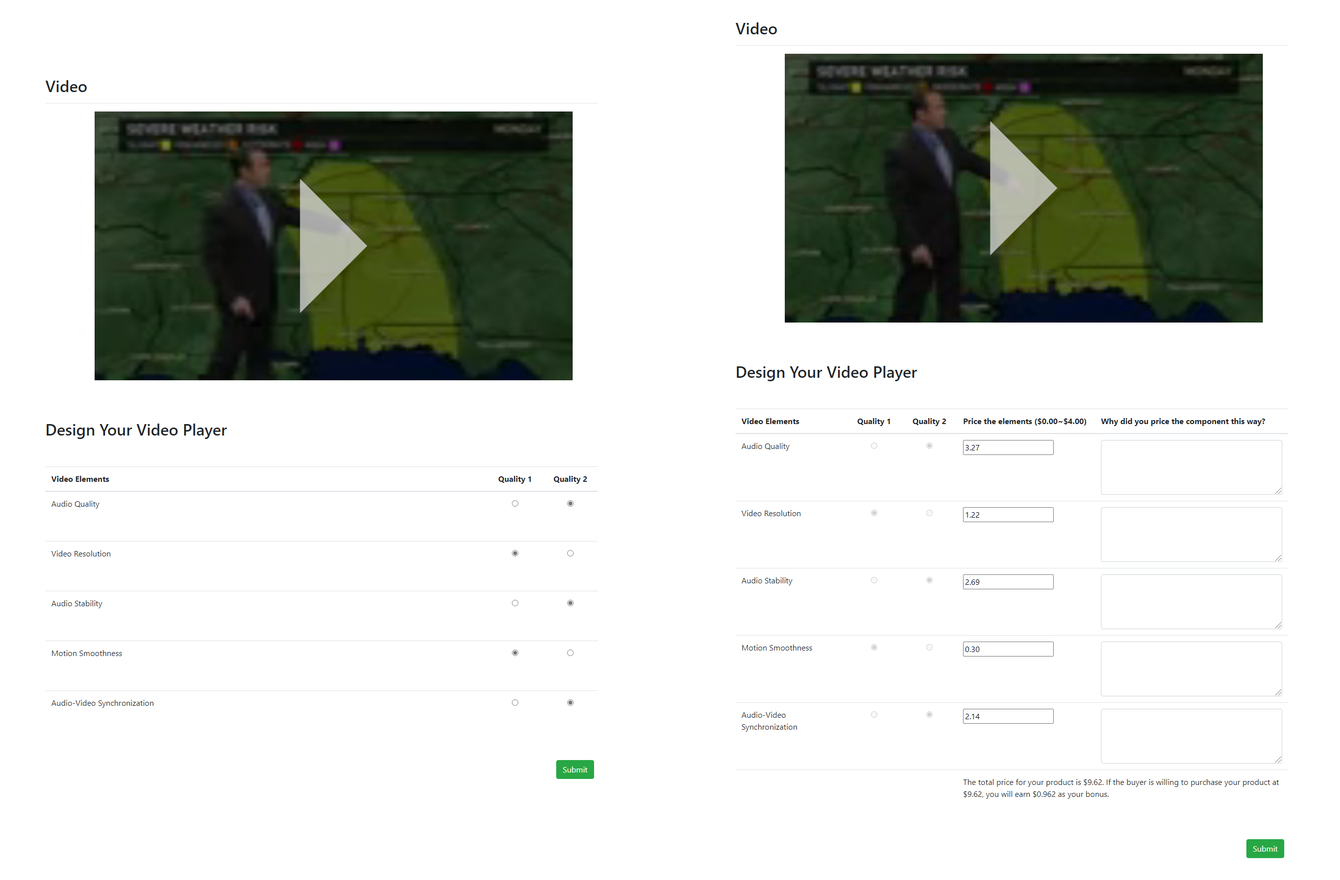
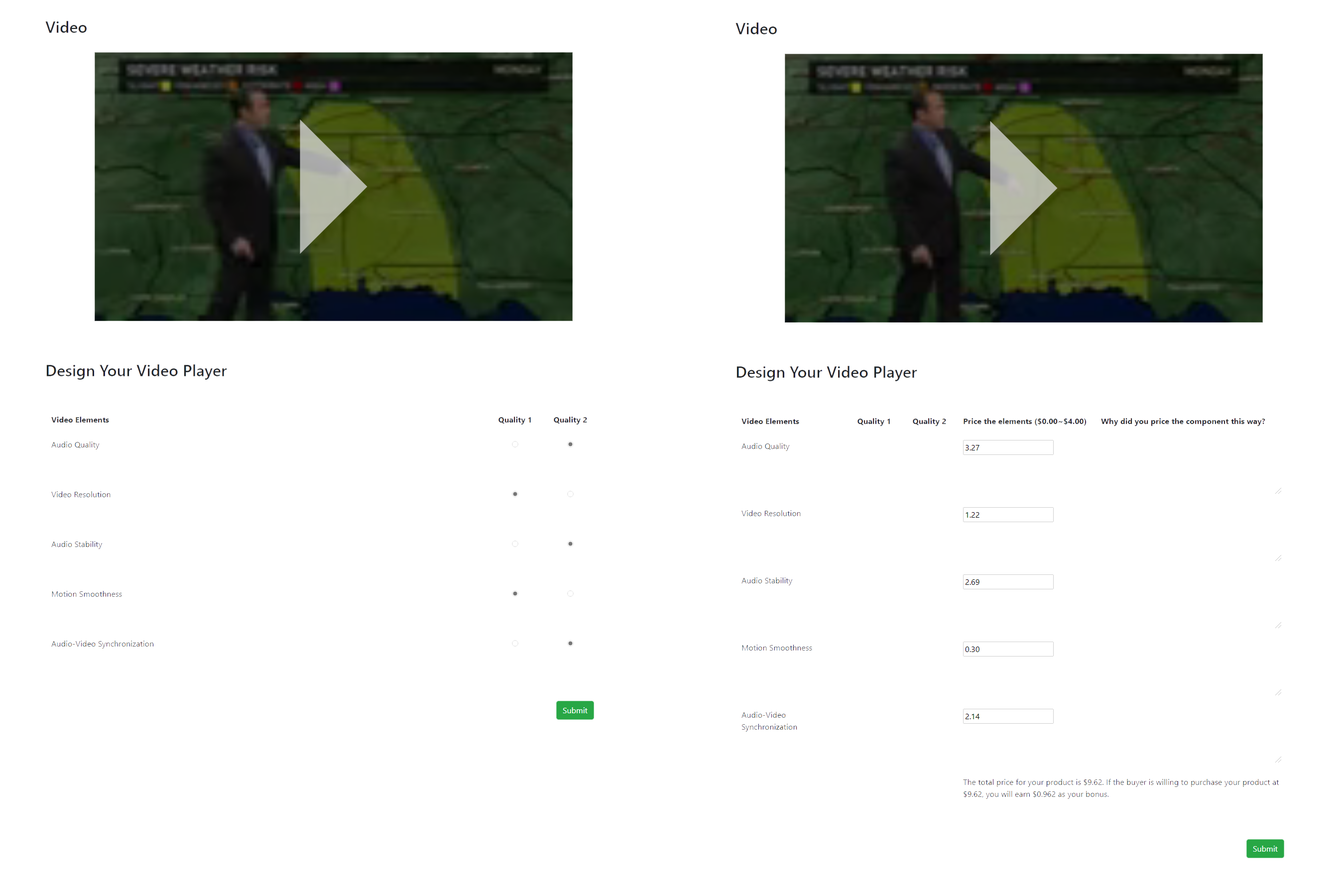
Updates from Overleaf

diff --git a/content/0_Introduction.tex b/content/0_Introduction.tex
@@ -1,10 +1,10 @@
 \section{Introduction}
 
-Surveys are a common instrument to gauge opinion for scholars in the social sciences, researchers in the HCI / CSCW, and investigators from many research community. The Likert ordinal scale~\cite{likert1932technique} is a familiar instrument in surveys that elicit ratings, where survey takers indicate their level of agreement, satisfaction, or importance along an intensity scale \cite{moors2016two}. Nearly a hundred years after~\textcite{likert1932technique}, we find the ordinal scale in widespread use in online surveys, including those on Qualtrics, SurveyMonkey, and Google forms platforms. Two observations prompt this study. First, the way researchers elicit preferences from survey-takers through the online incarnation of these ordinal scales is virtually indistinguishable from the Likert scale surveys administered on paper-based forms nearly a century ago. Second, one of the great advantages of online surveys is that scholars can potentially reach a large audience. However, prior work indicates that survey-takers can express inaccurate self-reports, including responses recorded via an ordinal scale~\cite{araujo2017much, vavreck2007exaggerated}. In this paper, we ask: \textit{Do the affordances of modern computer interfaces, coupled with a modern computer's ability to make real-time calculations, allow us to develop novel, screen-based techniques that elicit truthful responses from survey-takers?}
+Surveys are a common instrument to gauge opinion for scholars in the social sciences, the HCI / CSCW area, and many other research communities. The Likert ordinal scale~\cite{likert1932technique} is a familiar instrument in surveys that elicit ratings, where survey takers indicate their level of agreement, satisfaction, or importance along an intensity scale \cite{moors2016two}. Nearly a hundred years after~\textcite{likert1932technique}, we find the ordinal scale in widespread use in online surveys, including those on Qualtrics, SurveyMonkey, and Google Forms platforms. Two observations prompt this study. First, the way researchers elicit preferences from survey-takers through the online incarnation of these ordinal scales is virtually indistinguishable from the Likert scale surveys administered on paper-based forms nearly a century ago. \tc{We wonder if the ubiquity of computational devices can popularize survey tools that were accurate but har to access on paper.} Second, one of the great advantages of online surveys is that scholars can potentially reach a large audience. However, prior work indicates that self-reports by survey-takers, including responses recorded via an ordinal scale, can be inaccurate~\cite{araujo2017much, vavreck2007exaggerated}. In this paper, we ask: \textit{Do the affordances of modern computer interfaces, coupled with a modern computer's ability to make real-time calculations, allow us to develop novel, screen-based techniques that elicit responses from survey-takers which better represents their behaviors?}
 
-We examine our motivating question within the context of surveys where the survey creator has a specific goal: to use the aggregates of the elicited opinions to inform decisions by the survey creator, where these decisions may potentially impact the survey respondent. A wide variety of such surveys include those that ask respondents about which policies the government ought to pursue~\cite{pew_spending}, interface designers asking respondents for their opinions on different designs~\cite{ledo2018evaluation}, and what products to stock at grocery stores~\cite{nielsen}. The decision-maker (i.e., the group or the organization that uses the survey results) will then use the survey aggregates to implement one of the several options presented to the survey-takers. Often, these decision-makers have limited resources (e.g., money, time, manpower) and cannot realize all the options presented to the survey-takers. We term such surveys, where respondents help the decision-maker choose among a set of options, as \textit{resource-constrained surveys} in this paper. Thus, we consider surveys, where respondent have some utility in the survey outcome (e.g., the specific policy that the government adopts), even though the exact value of the utility or the time to receive that utility remains uncertain. In, contrast, surveys that for example, aim to develop rankings by asking respondents to identify their favorite hobby, place to visit, or their favorite celebrity, are not part of survey types that we consider in this paper. 
+We examine our motivating question within the context of surveys where the survey creator made decisions by aggregating respondents' elicited opinions. At the same time, these decisions could potentially impact these survey respondents. Examples of such surveys include those that ask respondents about which policies the government ought to pursue~\cite{pew_spending}, ask users for their opinions on different interface designs~\cite{ledo2018evaluation}, and ask customers about what products to stock at grocery stores~\cite{nielsen}. The decision-maker (i.e., the group or the organization that uses the survey results) then uses the survey aggregate responses to implement one of the several options presented to the survey-takers. Often, these decision-makers have limited resources (e.g., money, time, space, manpower) and cannot realize all the options presented to the survey-takers. In this paper, we term such surveys, where respondents help the decision-maker choose among a set of options under limited resources, \textit{resource-constrained surveys}. More specifically, we focus on resource-constrained surveys where respondents have some utility in the survey outcome (e.g., the specific policy that the government adopts), even though the exact value of the utility or the time to receive that utility may remain uncertain. In contrast, surveys that, for example, aim to develop rankings by asking respondents to identify their favorite hobby, place to visit, or their favorite celebrity, are not survey types that we consider in this paper. 
 
-In resource-constrained surveys, decision-makers ask the survey respondents two questions: \textit{how much} do you prefer each option; how would you \textit{prioritize} (i.e., rank) the options? In the past century, decision-makers have used ratings and rank-based survey-instruments to answer these questions; these instruments answer one of the two questions, but not both~\cite{moors2016two}.  Next, we examine two common survey techniques, one based on ratings and the other based on rankings, which decision-makers employ in their surveys.
+In resource-constrained surveys, decision-makers ask the survey respondents two questions: \textit{how much} do you prefer each option; how would you \textit{prioritize} (i.e., rank) the options? While in the past century, decision-makers have used ratings and rank-based survey-instruments to answer such questions, the instruments answered \emph{one} of the two questions, but not both~\cite{moors2016two}.  Next, we examine two common survey techniques, one based on ratings and the other based on rankings.
 
 
 % Decision-makers often utilize surveys to aggregate opinions from the crowd to inform decisions. Understanding a crowd's preferences and priorities across a set of options under resource constraints is a common use case of surveys. \tc{When there are insufficient resources, such as money, time, space, and workforce, it is impossible to satisfy all the needs, creating a resource constraint scenario. Examples of these scenarios include public polling surveys designed to allocate government budgets \cite{pew_spending}, surveys to assess designs in human-computer interaction (HCI) interfaces \cite{ledo2018evaluation}, and surveys to prioritize what products to stock in grocery stores \cite{nielsen}.}
@@ -22,68 +22,68 @@ In resource-constrained surveys, decision-makers ask the survey respondents two 
 % In order to find truthful answers, researchers have developed various forms of surveys to elicit \textit{truthful} self-reported preferences \cite{stone1999science}. 
 % Rating and ranking-based surveys are the two major categories \cite{moors2016two}, each with their strengths and weaknesses. 
 
-In a rating-based survey, survey takers indicate their level of agreement, satisfaction, or importance along an intensity scale~\cite{moors2016two}. The Likert scale is the most commonly used rating-based technique that elicits the \textit{strength} of a survey taker's preferences~\cite{likert1932technique}. Rating-based surveys are easy to understand and administer; this may explain why the Likert scale is the current norm in many survey settings. The Likert ordinal scale is problematic in the resource-constrained survey types of interest to this paper. Consider, for example, the Pew Research Center, which administers annual surveys with a 3-point Likert-like scale to \tc{know} how participants would budget federal government resources~\cite{pew_spending}. Respondents in such a survey can freely choose  ``increase spending'' on the scale for \textit{all} government program areas. However, a government with limited resources cannot do so. This behavior is known as the ``extreme responding'' bias~\cite{batchelor2016extreme, furnham1986response, meisenberg2008acquiescent}. Thus, a Likert scale survey may  inaccurately elicit how participants \textit{prioritize} \tc{the options since each option is independently assessed~\cite{alwin1985measurement}}. Furthermore, a Likert scale survey does not safeguard against exaggerated or unrealistic preferences~\cite{araujo2017much, vavreck2007exaggerated}.
+In a rating-based survey, survey takers indicate their level of agreement, satisfaction, or importance along an intensity scale~\cite{moors2016two}. The Likert scale is the most commonly used rating-based technique that elicits the \textit{strength} of a survey taker's preferences~\cite{likert1932technique}. Rating-based surveys are easy to understand and administer; this may explain why the Likert scale is the current norm in many survey settings. The Likert ordinal scale is problematic in the resource-constrained survey types that are of interest in this paper. Consider, for example, the Pew Research Center annual surveys with a 3-point Likert-like scale that ask how participants would budget federal government resources~\cite{pew_spending}. Respondents in such a survey can freely choose  ``increase spending'' on the scale for \textit{all} government program areas. However, a government with limited resources cannot operationalize this option. This behavior is known as ``extreme responding'' bias~\cite{batchelor2016extreme, furnham1986response, meisenberg2008acquiescent}. Thus, a Likert scale survey may inaccurately elicit how participants \textit{prioritize} \tc{the options since each option is independently assessed~\cite{alwin1985measurement}}. Furthermore, a Likert scale survey does not safeguard against exaggerated or unrealistic preferences~\cite{araujo2017much, vavreck2007exaggerated}.
 
-Ranking-based surveys focus on understanding how participants \textit{prioritize} among the possible options~\cite{moors2016two}. For example, participatory budgeting~\cite{cabannes2004participatory,goel2015knapsack,Goel2016, Lee2014, benade2020preference} is a promising alternative for governments to ask citizens to prioritize resource allocation.  In participatory budgeting, voters are asked to identify a subset $I$ among projects $P$, and each project $i \in P$ has a fixed implementation cost $c_i$ known to the survey taker. The survey-taker is also given the total budget available $B$ to the decision-maker (e.g., local city council) and each respondent is asked to pick a subset $I \in P$ of projects that the total costs $\sum_{i \in I} c_i \leqslant B$ stays within the budget. There are two main challenges with ranking based surveys. First, ranking-based surveys cannot elicit the \textit{strength} of a participant's preferences, i.e., the degree to which participant prefers option A over B. Second, ranking surveys that use participatory budgeting may be less easy to adapt to CSCW or Social science surveys, since the decision-maker, which creates the survey, has to assign implementation costs to each option and an overall budget. For example, in a survey about interface design, the decision-maker would need to assign costs to each interface aspect on which they are eliciting an opinion. Furthermore, unlike the typical participatory budgeting scenario, where project costs involve allocating \textit{the respondent's tax dollars,} in typical social science and HCI surveys, the implementation of an option involves no obvious cost to a participant. 
+Ranking-based surveys focus on understanding how participants \textit{prioritize} among the possible options~\cite{moors2016two}. For example, participatory budgeting~\cite{cabannes2004participatory,goel2015knapsack,Goel2016, Lee2014, benade2020preference} is a promising alternative for governments to ask citizens to prioritize resource allocation.  In participatory budgeting, voters are asked to identify a subset $I$ among projects $P$, and each project $i \in P$ has a fixed implementation cost $c_i$ known to the survey taker. The survey-taker is also given the total budget available $B$ to the decision-maker (e.g., local city council) and each respondent is asked to pick a subset $I \in P$ of projects that the total costs $\sum_{i \in I} c_i \leqslant B$ stays within the budget. There are two main challenges with ranking based surveys. First, ranking-based surveys cannot elicit the \textit{strength} of a participant's preferences, i.e., the degree to which participant prefers option A over B. Second, ranking surveys that use participatory budgeting may be less easy to adapt to CSCW or social science surveys, since the decision-maker, who creates the survey, has to assign implementation costs to each option and an overall budget. For example, in a survey about interface design, the decision-maker would need to assign costs to each interface element on which they are eliciting an opinion. Furthermore, unlike the typical participatory budgeting scenario, where project costs involve allocating \textit{the respondent's tax dollars,} in typical social science and HCI surveys, the implementation of an option involves no obvious cost to a participant. 
 
 % Besides, performing statistical analysis on rankings data is challenging \cite{alwin1985measurement}.
 
 
 % a resource-constrained collective decision-making scenario where citizens vote for the projects that go into a government budget, participants use ranked voting to order the list of projects according to their relative preferences \cite{benade2020preference}. 
 
-In this paper, we plan to examine Quadratic Voting (QV) as a possible preference elicitation mechanism in online surveys. \textcite{posner2018radical} have recently advocated for the use of QV as an alternative for the traditional one-person-one-vote system. In the \textcite{posner2018radical} formulation, each person has access to a fixed number of voice credits $B$ (i.e., similar to the budget in knapsack voting), allocated across options. Then, each person can cast more than one vote (for, or against) for each option, with the proviso that the votes have a quadratic cost. Thus, casting $n_k$ votes on option $k$ would cost $c(n_k) \propto n_k^2$ in voice credits. Furthermore, the total cost in voice credits across all options cannot exceed the budget $B$. Thus, a person casting positive or negative votes across $k$ options has to satisfy $\sum_k n_k^2 \leqslant B$, where $n_k$ is the number of votes cast on option $k$. 
+In this paper, we examine Quadratic Voting (QV) as a possible preference elicitation mechanism in online surveys. \textcite{posner2018radical} recently advocated for the use of QV as an alternative for the traditional one-person-one-vote system. In the \textcite{posner2018radical} formulation, each person has access to a fixed number of voice credits $B$ (i.e., similar to the budget in knapsack voting) to allocate across options. Then, each person can cast more than one vote (for, or against) for each option, with the proviso that the votes have a quadratic cost. Thus, casting $n_k$ votes on option $k$ would cost $c(n_k) \propto n_k^2$ in voice credits. Furthermore, the total cost in voice credits across all options cannot exceed the budget $B$. Thus, a person casting positive or negative votes across $k$ options has to satisfy $\sum_k n_k^2 \leqslant B$, where $n_k$ is the number of votes cast on option $k$. 
 
 % At the outset, it is unclear how well QV will translate to the kinds of surveys that we examine in this paper.
 
-What makes QV of interest to the CSCW community that uses online surveying tools is that it appears to straddle the two familiar elicitation mechanisms of rating and ranking. While respondents can cast any number of voice credits modulo budgeting constraints in favor of an option, and thus indicating the strength of preference, unlike Likert, they \textit{cannot} allocate a high number of votes to \textit{all} options. Notice that the quadratic vote costs imply that every additional vote in favor of an option, say a change from $n$ to $n+1$ votes, increases the marginal cost by $(n+1)^2-n^2=2n+1$ voice credits. Due to the quadratic budget constraint, QV gently nudges the respondents to prioritize among the options. Prior work further showed that QV results approximate a normal distribution \tc{ compared to}  the ``extreme responding'' behavior found in Likert surveys~\cite{quarfoot2017quadratic}.~\textcite{Lalley2018} also proved robust optimality properties of QV, sugessting that QV may be incentive-compatible (i.e., truth-telling is the dominant strategy for the respondent), but to best of our knowledge, this optimality assertion lacks empirical validation in the survey contexts of interest to this paper. Since QV requires real-time calculations to let the respondent know if they are allocating voice credits across options within the overall budget, QV requires a computational engine. The ubiquity of smartphones and tablets, HCI scholars' desire to reach a wide audience through online surveys, and QV's robust optimality all suggest that QV is worth investigating as an online survey instrument. However, that QV requires a computational engine is also problematic for scholars who wish to reach respondents through both online and paper-based surveys.
+What makes QV of interest to the CSCW community that uses online surveying tools is that it appears to straddle the two familiar elicitation mechanisms of rating and ranking. While respondents can cast any number of voice credits modulo budgeting constraints on an option and thus indicating the strength of a preference, unlike Likert, they \textit{cannot} allocate a high number of votes to \textit{all} options. Notice that the quadratic vote costs imply that every additional vote on an option, say a change from $n$ to $n+1$ votes, increases the marginal cost by $(n+1)^2-n^2=2n+1$ voice credits. Due to the quadratic budget constraint, QV gently nudges the respondents to prioritize among the options. Prior work further showed that aggregated QV results of an option in a sample approximate a normal distribution in contrast to  the ``extreme responding'' behavior found in Likert surveys~\cite{quarfoot2017quadratic}.~\textcite{Lalley2018} also proved robust optimality properties of QV, suggesting that QV may be incentive-compatible (i.e., truth-telling is the dominant strategy for the respondent). Yet, to our best knowledge, this optimality assertion lacks empirical validation in the survey contexts of interest to this paper. Since QV requires real-time calculations to let the respondent know if they are allocating voice credits across options within the overall budget, QV requires a computational engine. The ubiquity of smartphones and tablets, the desire for the CSCW community to reach a wide audience through online surveys, and QV's robust optimality all suggest that QV is worth investigating as an online survey instrument. \tc{Though there were many critical unanswered questions: from designing QV interfaces to communicating what QV is to users, we believe examining whether QV elicits more accurate responses from participants than Likert scale surveys is an important first step.}
 
 
+
+% However, that QV requires a computational engine is also problematic for scholars who wish to reach respondents through both online and paper-based surveys.
 % While QV is an thus an attractive option to test given the ubiquity smartphones and a
-
-
-
-
-
-
 % Challenges with eliciting accurate self-reported preferences in resource-constrained decisions motivated us to examine an alternative, Quadratic Voting (QV), a relatively new voting mechanism proposed by \textcite{posner2018radical}. In this paper, we empirically tested how well QV elicits true preferences in resource-constrained collective decision-making processes compared to the Likert scale. \lwt{Here, we define an individual's ``true preference'' as a preference based entirely on their honest opinions and their own will.} \tc{We measure it through the outcome of an incentive-compatible task in our study.}
-
 % There had been long debates on the pros and cons of rankings and ratings approaches. Nonetheless, when researchers developed many of these survey methodologies, the mediums of conducting surveys were paper and landlines. The current generation of survey tools, such as Survey Monkey and Qualtrics, simply translated the traditional approaches from paper to online. Given the ubiquity of personal computing devices today, such as \tc{smartphones, tablets,} and laptops, we ask: is there a computational-powered survey methodology that elicits both the rankings \textit{and} ratings of a set of options accurately in a resource-constrained collective decision-making process? In this study, we investigate Quadratic Voting (QV) \cite{posner2018radical} as a potential response to this question. 
 
 % Participants rank and rate the potential options in QV at the same time. In QV, expressing an opinion is not free -- each participant receives a fixed budget of voice credits, i.e., the ``currency" in QV, and pays a quadratic cost for the votes they cast. More formally, casting $n$ votes for or against an option costs $n^2$ voice credits. Participants vary the number of votes to represent the strength of their preference, i.e., they \textit{rate} an option with the number of votes. But as the number of votes on an option increases, the marginal cost for each extra vote increases as well; in other words, each additional vote becomes more expensive. Participants may cast as many votes as they choose on any option, as long as the total cost for the votes does not exceed the fixed given budget of voice credits. The limited budget and increasing marginal cost \tc{encourage} participants to make trade-offs among options, equivalent to \textit{ranking} them. Prior work further demonstrated that QV outcomes approximated a normal distribution\tc{ instead of }the polarized responses from Likert scale survey results on highly-debated topics \cite{quarfoot2017quadratic}. However, to the best of our knowledge, no one has empirically explored whether QV \tc{can elicit} more accurate self-reported preferences.
 %\textcite{lalley2018quadratic} proved that the QV mechanism is more Pareto-optimal than many traditional voting mechanisms.
 
-In our study, we examined QV's ability to elicit true preferences in resource-constrained surveys. Given that Likert scale surveys are the most widely adopted to date \cite{moors2016two}, we compared a QV survey to a Likert scale survey \cite{likert1932technique} in a resource-constrained setting. We identified two distinct types of survey questions in this setting: (1) choosing among $K$ independent options of one topic, and (2) choosing among $K$ dependent options that jointly contribute to the same topic. While the former is typical in public policy surveys, the latter is common to interface design surveys.
+In our study, we examined QV's ability to elicit true preferences in resource-constrained surveys. Since we were not aware of any prior work that empirically explored a way to determine the voice credit budget of QV, we assessed three different budgets in our QV survey experiment. Given that Likert scale surveys are the most widely adopted to date \cite{moors2016two}, we compared a QV survey to a Likert scale survey \cite{likert1932technique} in a resource-constrained setting. We identified two distinct types of survey questions in this setting: (1) choosing among $K$ independent options of one topic, and (2) choosing among $K$ dependent options that jointly contribute to the same topic. While the former is typical in public policy surveys, the latter is common to interface design surveys. Therefore, we studied the two types in two separate research questions:
 
 % To offer an analogy, scenario one relates to choosing among ice cream, cakes, and puddings for dessert, while scenario two assesses what an individual cares more about when choosing ice cream -- the flavor, texture, or ingredients. Therefore, we analyzed them in two separate research questions:
 
 
 \begin{itemize}
-    \item[\textbf{RQ 1}] How do QV responses and Likert-scale responses align with the respondent's true preferences\footnote{That is, the phrase ``align with true preferences'' is equivalent to determining if the survey instrument is incentive-compatible.} in a survey where a survey respondent chooses among $K$ independent options of one topic? How do variations in the number of voice credits available to QV survey respondents impact this outcome?
+    \item[\textbf{RQ 1a}] How well do QV responses and Likert-scale responses align with the respondent's true preferences\footnote{That is, the phrase ``align with true preferences'' is equivalent to determining if the survey instrument is incentive-compatible.} in a survey where a survey respondent chooses among $K$ independent options of one topic? 
+    
+    \item[\textbf{RQ 1b}] How do variations in the number of voice credits available to QV survey respondents -- a small ($O(K)$), medium ($O(K^{1.5})$), and large ($O(K^2)$) budget -- impact this outcome?
 
-    \item[\textbf{RQ 2}] How do QV responses and Likert-scale responses align with the respondent's true preferences in a survey where survey respondent chooses among $K$ dependent options that jointly contribute to the same topic? 
+    \item[\textbf{RQ 2}] How well do QV responses and Likert-scale responses align with the respondent's true preferences in a survey where the survey respondent chooses among $K$ dependent options that jointly contribute to the same topic? 
 \end{itemize}
 
-To answer RQ1, we designed a public polling survey to assess which social causes need more support, a typical scenario for choosing among $K$ independent options. To measure participants' true preferences on the same topic, we created an incentive-compatible donation task, in which participants should only donate more for cause A than cause B if they truly care more about cause A \cite{champ1997using}. Participants on Mechanical Turk (MTurk) completed either a 5-point Likert scale version or a QV version of the survey, and the donation task, in a randomized controlled experiment. \tc{Since we were not aware of any prior work that empirically explored a way to determine the voice credit budget of QV, we asked the second question in RQ1. We experimented with} three variations of the QV survey with a small ($O(K)$), medium ($O(K^{1.5})$), and large ($O(K^2)$) budget in the experiment. We measured the similarity between each individual's survey result and their true preferences as reflected in the donation task and applied Bayesian analysis to compare the degree of similarity to true preferences in QV and Likert scale surveys.
+To answer RQ1, we designed a public polling survey, similar to those administered by Pew Research Center annually, to assess which social causes need more support, a typical scenario for choosing among $K$ independent options. To measure participants' true preferences on the same topic, we created an incentive-compatible donation task, in which participants should only donate more for cause A than cause B if they truly care more about cause A \cite{champ1997using}. In a randomized controlled experiment, participants completed either a 5-point Likert scale version or a QV version of the survey, and the donation task on the Amazon Mechanical Turk (MTurk) platform. We measured the similarity between each individual's survey result and their true preferences as reflected in the donation task and applied Bayesian analysis to compare the degree of similarity to true preferences in QV and Likert scale surveys.
 
-In the case of choosing among $K$ dependent options that jointly contribute to the same topic in RQ2, we used an HCI user study scenario to understand how users make trade-offs across visual and audio elements in a video streaming experience given limited internet bandwidth. We used QV and 5-point Likert scale surveys to obtain participants' self-reported responses and designed \tc{an} incentive-compatible product design and pricing task to elicit their willingness-to-pay for each video element \cite{roth1982incentive}. Similar to the first experiment, we conducted the randomized controlled experiment on MTurk and analyzed the results with Bayesian analysis.
+In the case of choosing among $K$ dependent options that jointly contributed to the same topic in RQ2, we used an HCI user study scenario to understand how users made trade-offs across visual and audio elements in a video streaming experience given limited internet bandwidth. We used QV and 5-point Likert scale surveys to obtain participants' self-reported responses and created \tc{an} incentive-compatible product design and pricing task to elicit their willingness-to-pay for each video element \cite{roth1982incentive}. Similar to the first experiment, we conducted the randomized controlled experiment on MTurk and analyzed the results using Bayesian analysis.
 
 \textbf{Contributions} This work contributes to the extensive body of work on survey techniques that elicit self-reported preferences in resource-constrained decision-making in two ways: we find an improved accuracy of responses via QV compared to the Likert scale norm, and we extend the use of QV to the HCI user study domain.
 
 \begin{description}
-\item[QV more accurately elicits true preferences:] We show empirically that QV with a medium (i.e., $O(K^{1.5})$) to large (i.e., $O(K^{2})$) voice credit budget elicits true preferences more accurately than Likert scale responses when the survey respondents are asked to either (1) choose among $K$ independent options of the same topic, or (2) choose among $K$ dependent options jointly contributing to the same topic, under resource constraints. \tc{Unlike} prior empirical work that compared the characteristics of QV and Likert scale responses \cite{quarfoot2017quadratic, naylor2017first}, we focus on accurate preference elicitation. Based on two carefully-designed randomized controlled experiments, our Bayesian analysis showed that QV responses aligned significantly closer to participants' responses in an incentive-compatible task \tc{than the} 5-point Likert scale responses with a medium to high effect size \hs{state the value of the effect size}. This finding is important because it shows that QV, a computational-powered alternative survey approach that combines ratings and rankings, \tc{can} assist resource-constrained decision-making with more accurate self-reported responses.
-\item[Application of QV to HCI:] We extend QV's application scenario from typical public policy and education research to a problem setting familiar to the CSCW community: a prototypical HCI user study. The limited empirical studies and applications of QV focused mostly on public policy \cite{quarfoot2017quadratic, colorado_qv} and education research \cite{naylor2017first}. To the best of our knowledge, no prior HCI study has applied QV in an online survey. We designed an HCI user study with a research question that involved resource-constrained decisions and showed that a QV survey \tc{could} elicit users' preferences on an HCI-related research question more accurately than a Likert scale survey, a norm in the HCI community \cite{ledo2018evaluation}. Our experiment results, QV survey design, and QV interface serve as a stepping stone for HCI researchers to further explore the use of this surveying method in their studies and encourage decision-makers from other fields to consider QV as a promising alternative.
+\item[QV more accurately elicited true preferences:] We show empirically that QV with a medium (i.e., $O(K^{1.5})$) to large (i.e., $O(K^{2})$) voice credit budget elicited true preferences more accurately than Likert scale responses when the survey respondents were asked to either (1) choose among $K$ independent options of the same topic, or (2) choose among $K$ dependent options jointly contributing to the same topic, under resource constraints. \tc{Unlike} prior empirical work that compared the characteristics of QV and Likert scale responses \cite{quarfoot2017quadratic, naylor2017first}, we focused on accurate preference elicitation. Based on two carefully-designed randomized controlled experiments, our Bayesian analysis showed that QV responses aligned significantly closer to participants' responses in an incentive-compatible task \tc{than the} 5-point Likert scale responses with a medium to high effect size \hs{state the value of the effect size}. This finding is important because it shows that QV, a computational-powered alternative survey approach that combines ratings and rankings, \tc{can} assist resource-constrained decision-making with more accurate self-reported responses.
+\item[Application of QV to HCI:] We extend QV's application scenario from typical public policy and education research to a problem setting familiar to the CSCW community: a prototypical HCI user study. The limited prior empirical studies and applications of QV focused mostly on public policy \cite{quarfoot2017quadratic, colorado_qv} and education research \cite{naylor2017first}. To the best of our knowledge, no prior HCI study has applied QV in an online survey. We designed an HCI user study with a research question that involved resource-constrained decisions and showed that a QV survey elicited users' preferences on an HCI-related research question more accurately than a Likert scale survey, a norm in the HCI community \cite{ledo2018evaluation}. Our experiment results, QV survey design, and QV interface serve as a stepping stone for HCI researchers to further explore the use of this surveying method in their studies and encourage decision-makers from other fields to consider QV as a promising alternative.
 \end{description}
 
-While our study demonstrates the potential of QV as a computational tool to facilitate truthful preference elicitation, the goal of this research is \textit{not} to convince decision-makers to replace their Likert scale surveys with QV surveys entirely. Indeed, in cases including when the survey requires the use of \tc{paper-based} responses (e.g., when technological aids are unavailable) or when the survey involves a list of unrelated options, or when the survey outcome is not resource-constrained,  QV may not be an appropriate option. Instead, our goal with this paper is to show that in the ratings and rankings scenarios that we investigate in this paper, QV may prove to be a compelling alternative to \tc{the} Likert scale when conducting online surveys.  
+While our study demonstrates the potential of QV as a computational tool to facilitate truthful preference elicitation, the goal of this research is \textit{not} to convince decision-makers to replace their Likert scale surveys with QV surveys entirely. Indeed, in cases requiring the use of \tc{paper-based} responses (e.g., when technological aids are unavailable), when the survey involves a list of unrelated options, or when the survey outcome is not resource-constrained,  QV may not be an appropriate option. Instead, our goal with this paper is to show that in resource-constrained scenarios of our interest in this paper that need both ratings and rankings, QV may prove to be a compelling alternative to Likert scale when conducting online surveys.  
+
+
+
+
+
+
+
+
 
 % we pose many open questions to prompt further conversations in the community, and encourage decision-makers to carefully evaluate QV's strengths and weaknesses (e.g., higher cognitive cost, less known to participants) prior to adoption.
 % accuracy
-
-
 % wider application domains
-
-
-
 % ask participants to express their attitudes using a scale for a given topic or question on a scale of 1 to 5. Researchers would use collected responses to make their decision. This paper focuses on collective decision-making tasks aimed at eliciting group preferences among a set of choices among $K$ options. Questions such as: ``Which interface do users like most?'', ``What are some products that customers are satisfied with?'', and  ``What public policies do constituents feel more important?'' are examples of eliciting group preferences among $K$ options.
 
 
@@ -133,17 +133,6 @@ While our study demonstrates the potential of QV as a computational tool to faci
 % Second, we demonstrate that QV results depend on the voice credit budget. To the best of our knowledge, little did researchers discussed the effect of the number of voice credits in prior works. In this study, we discovered that participants need a large enough voice credit to obtain an accurate QV result.
 
 % The third contribution demonstrates the application of QV in the HCI domain. We are not aware of prior studies in HCI that utilize QV, and we believe that our experiment and software deliverable provides a template to use QV in later research.
-
-
-
-
-
-
-
-
-
-
-
 
 %%----------------------------%%
 

diff --git a/content/99_appendix.tex b/content/99_appendix.tex
@@ -104,7 +104,9 @@ In experiment two, we designed the research scenario to answer the following que
      \centering
      \begin{subfigure}[ht]{0.49\textwidth}
          \centering
-         \includegraphics[width=\textwidth]{content/image/player_loading.png}
+         \vspace*{0.065in}
+         \includegraphics[width=0.97\textwidth]{content/image/player_loading.png}
+         %\vspace*{-0.01mm}
          \caption{Video interface when loading}
          \label{fig:video_loading}
      \end{subfigure}
